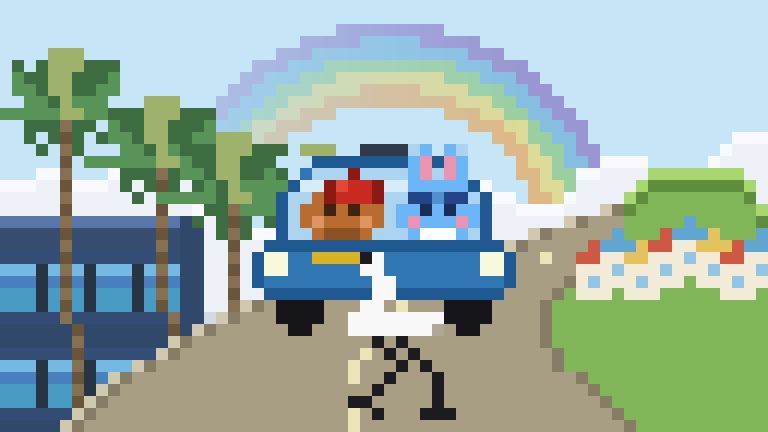
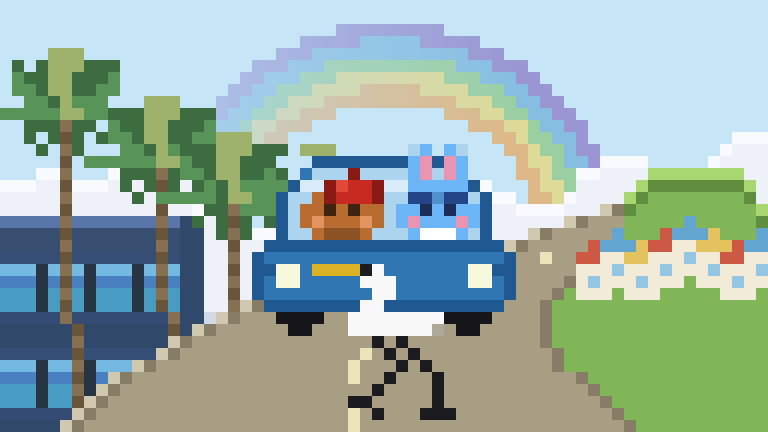
rainbow: 车头增高/车灯移位/白鹭头下移/脖颈调整

Changed region(s): [[0.3125, 0.5718, 0.6875, 0.7222], [0.4688, 0.331, 0.5312, 0.3611]]

diff --git a/pixel_rainbow.py b/pixel_rainbow.py
@@ -334,15 +334,15 @@ sp(24, 15, TES_D); sp(39, 15, TES_D)
 
 # Hood
 wrow(20, 22, 41, TES)  # 车头顶行，x=21/42圆角挖掉
-fl(21, 23, 21, 42, TES)
+fl(21, 24, 21, 42, TES)
 wrow(20, 22, 41, TES_D)  # 圆角挖空x=21/42
-wcol(21, 21, 23, TES_D)
-wcol(42, 21, 23, TES_D)
+wcol(21, 21, 24, TES_D)
+wcol(42, 21, 24, TES_D)
 
 
 # Lower bumper / no grille (Tesla)
-fl(24, 23, 22, 41, TES_D)
-wrow(24, 22, 41, TES_D)  # 车头底部描边
+fl(25, 24, 22, 41, TES_D)
+wrow(25, 22, 41, TES_D)  # 车头底部描边
 
 # 轮子圆角（用当前路面色）
 _WBG = BRIDGE
@@ -418,8 +418,6 @@ sp(BCX-2, BCY-1, BUN_BLUSH); sp(BCX+2, BCY-1, BUN_BLUSH)
 sp(BCX-1, BCY, (255,255,255)); sp(BCX, BCY, (255,255,255)); sp(BCX+1, BCY, (255,255,255))
 
 # ── Rear-view mirror (移到车顶中间上方，不遮玻璃) ──
-fl(12, 13, 30, 33, (68, 78, 95))
-wrow(12, 30, 33, (48, 58, 75))
 
 
 
@@ -435,16 +433,17 @@ EGRET    = (248, 248, 248)
 EGRET_BK = ( 28,  28,  32)
 EGRET_YL = (218, 178,  38)
 # 嘴（朝左，4格）
-sp(26, 21, EGRET_YL); sp(27, 21, EGRET_YL); sp(28, 21, EGRET_YL); sp(29, 21, EGRET_YL)
+sp(26, 22, EGRET_YL); sp(27, 22, EGRET_YL); sp(28, 22, EGRET_YL); sp(29, 22, EGRET_YL)
 # 头
-sp(30, 21, EGRET); sp(31, 21, EGRET)
-sp(30, 21, EGRET_BK)  # 眼
-# S形脖子（填密，镜像）
 sp(30, 22, EGRET); sp(31, 22, EGRET)
+sp(30, 22, EGRET_BK)  # 眼
+# S形脖子（填密，镜像）
+sp(30, 23, EGRET); sp(31, 23, EGRET)
 sp(31, 23, EGRET); sp(32, 23, EGRET)
 sp(31, 24, EGRET); sp(32, 24, EGRET)
-sp(30, 25, EGRET); sp(31, 25, EGRET)
-sp(30, 26, EGRET); sp(31, 26, EGRET)  # 脖身连接
+sp(30, 26, EGRET); sp(31, 26, EGRET)
+sp(30, 27, EGRET); sp(31, 27, EGRET)  # 脖身连接
+sp(30, 25, EGRET); sp(31, 25, EGRET)  # 脖身衔接段
 # 身体
 fl(26, 27, 30, 36, EGRET)
 sp(29, 26, EGRET); sp(30, 26, EGRET); sp(31, 26, EGRET); sp(32, 26, EGRET); sp(33, 26, EGRET); sp(34, 26, EGRET); sp(35, 26, EGRET)
@@ -477,8 +476,8 @@ sp(35, 34, EGRET_BK); sp(36, 34, EGRET_BK); sp(37, 34, EGRET_BK)
 sp(22, 22, TES_D)
 sp(41, 22, TES_D)
 # Headlights
-fl(21, 22, 22, 23, TES_CHR)
-fl(21, 22, 40, 41, TES_CHR)
+fl(22, 23, 23, 24, TES_CHR)
+fl(22, 23, 39, 40, TES_CHR)
 img.save('pixel_rainbow.png')
 print('Saved')
 
